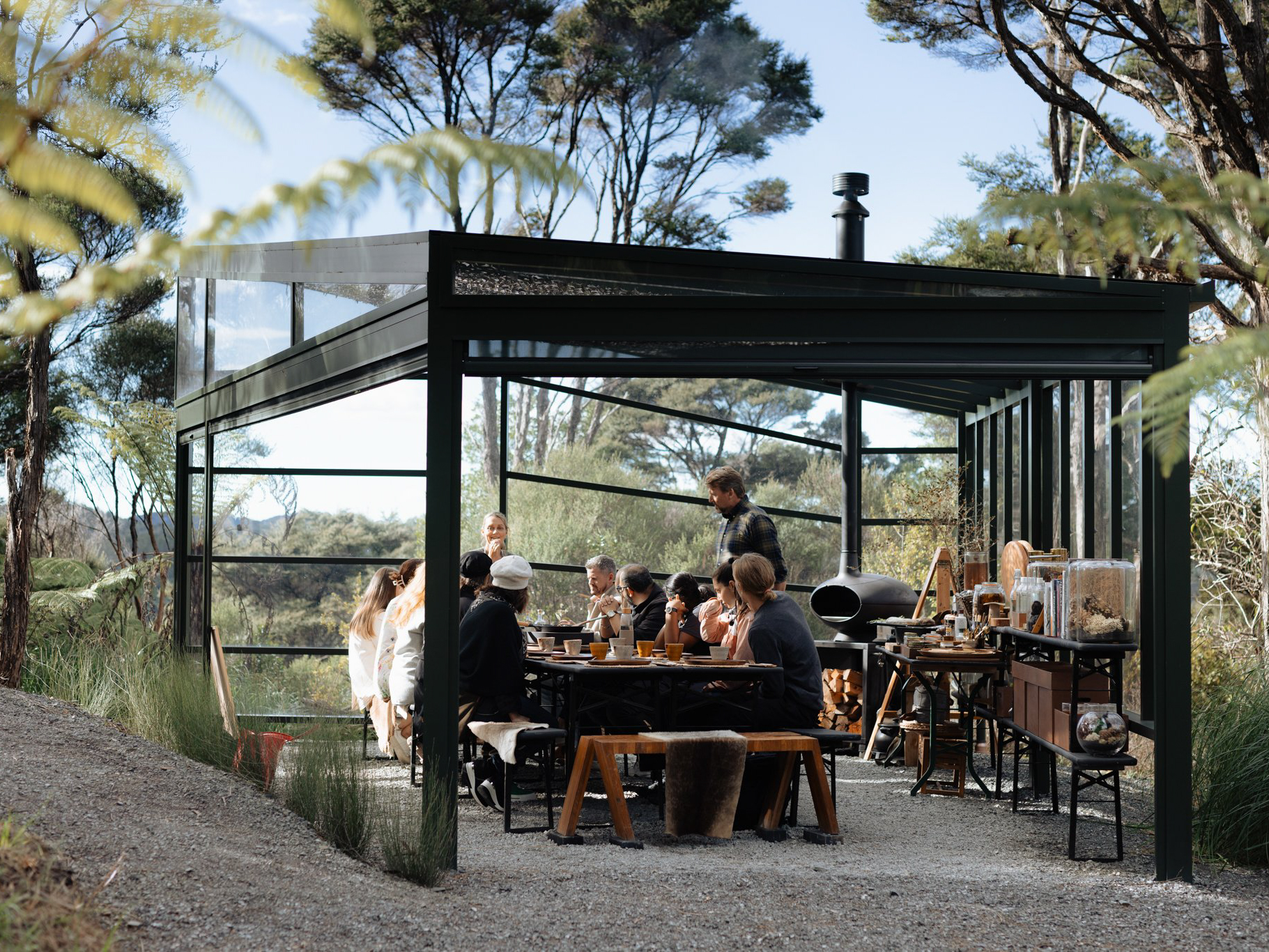
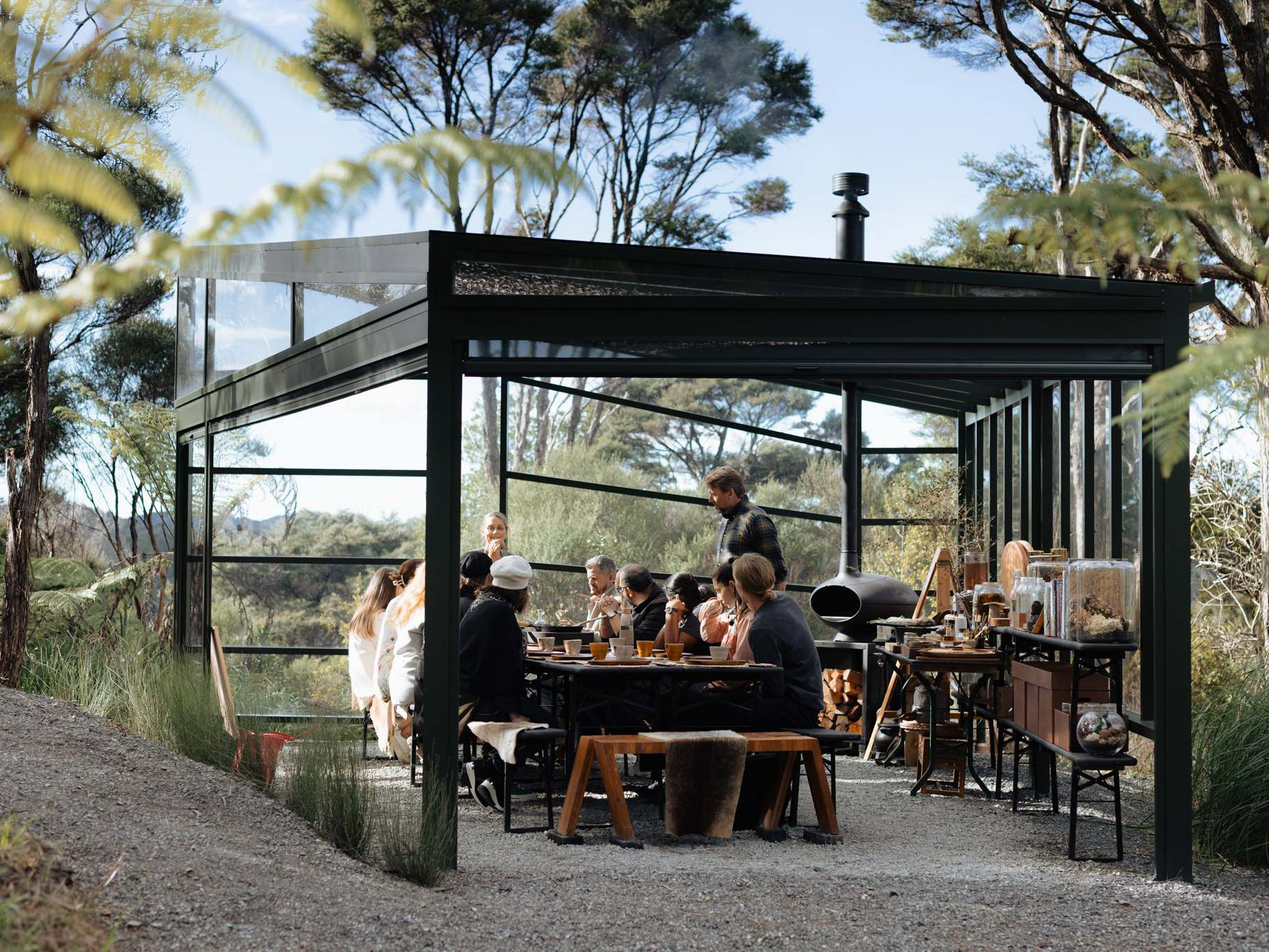
homepage

Changed region(s): [[0.0923, 0.0922, 0.123, 0.123]]

diff --git a/apps/marketing/components/home/MaterialSection.tsx b/apps/marketing/components/home/MaterialSection.tsx
@@ -8,7 +8,7 @@ type MaterialSectionProps = {
   eyebrow: string;
   title: string;
   intro: string;
-  image: { src: string; alt: string };
+  image: { src: string; alt: string; quality?: number };
   characteristics: Characteristic[];
   bestFor?: string;
   className?: string;
@@ -37,6 +37,7 @@ export default function MaterialSection({
               alt={image.alt}
               fill
               sizes="(max-width: 960px) 100vw, (max-width: 1400px) 52vw, 640px"
+              quality={image.quality}
               className="object-cover"
             />
           </div>

diff --git a/apps/marketing/components/home/AcrylicSection.tsx b/apps/marketing/components/home/AcrylicSection.tsx
@@ -11,8 +11,9 @@ export default function AcrylicSection() {
       intro="Clear or tinted acrylic sheets that keep spaces bright and open while still providing rain and UV protection."
       bestFor="Bright, open courtyards"
       image={{
-        src: '/images/project-dairy-flat-02.jpg',
+        src: '/images/dairy-flat-hero.jpg',
         alt: 'Acrylic roof over an outdoor dining area',
+        quality: 48,
       }}
       characteristics={[
         {

diff --git a/apps/marketing/components/home/HomeHeroSection.tsx b/apps/marketing/components/home/HomeHeroSection.tsx
@@ -128,7 +128,7 @@ export default function HomeHeroSection({
                 alt="Dairy Flat pergola at a modern home"
                 fill
                 sizes="100vw"
-                quality={55}
+                quality={48}
                 style={{ objectFit: 'cover' }}
                 placeholder="blur"
                 blurDataURL={blurDataUrl}
